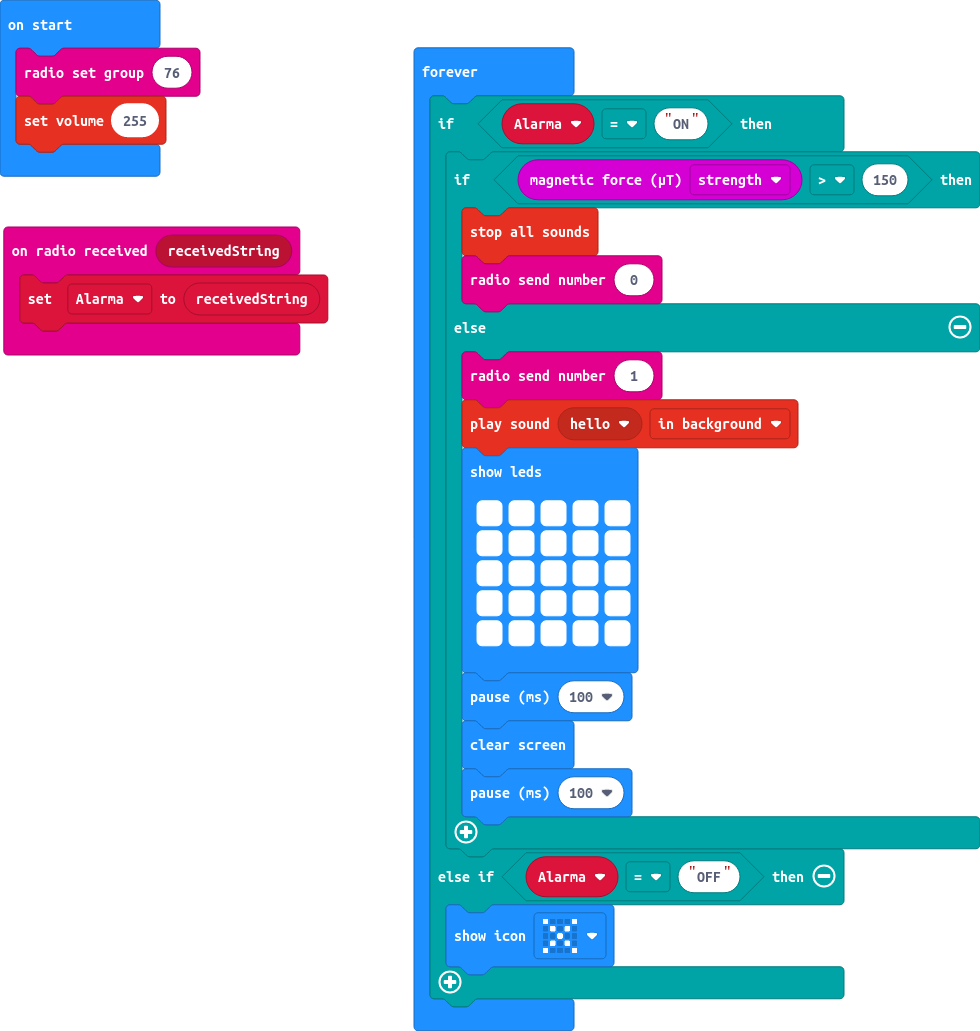
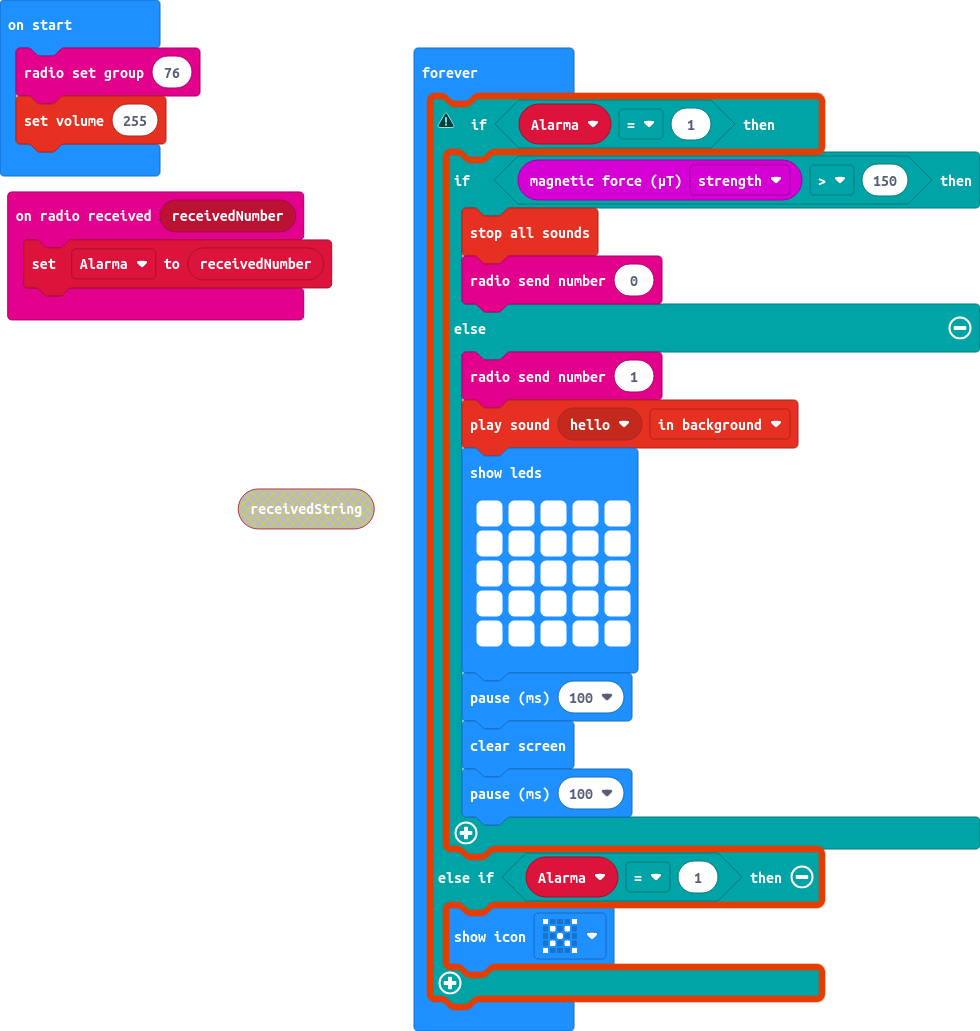
Update main.blocks, main.ts

diff --git a/main.ts b/main.ts
@@ -1,11 +1,11 @@
-radio.onReceivedString(function (receivedString) {
-    Alarma = receivedString
+radio.onReceivedNumber(function (receivedNumber) {
+    Alarma = receivedNumber
 })
-let Alarma = ""
+let Alarma = 0
 radio.setGroup(76)
 music.setVolume(255)
 basic.forever(function () {
-    if (Alarma == "ON") {
+    if (Alarma == 1) {
         if (input.magneticForce(Dimension.Strength) > 150) {
             music.stopAllSounds()
             radio.sendNumber(0)
@@ -23,7 +23,7 @@ basic.forever(function () {
             basic.clearScreen()
             basic.pause(100)
         }
-    } else if (Alarma == "OFF") {
+    } else if (Alarma == 1) {
         basic.showIcon(IconNames.No)
     }
 })
